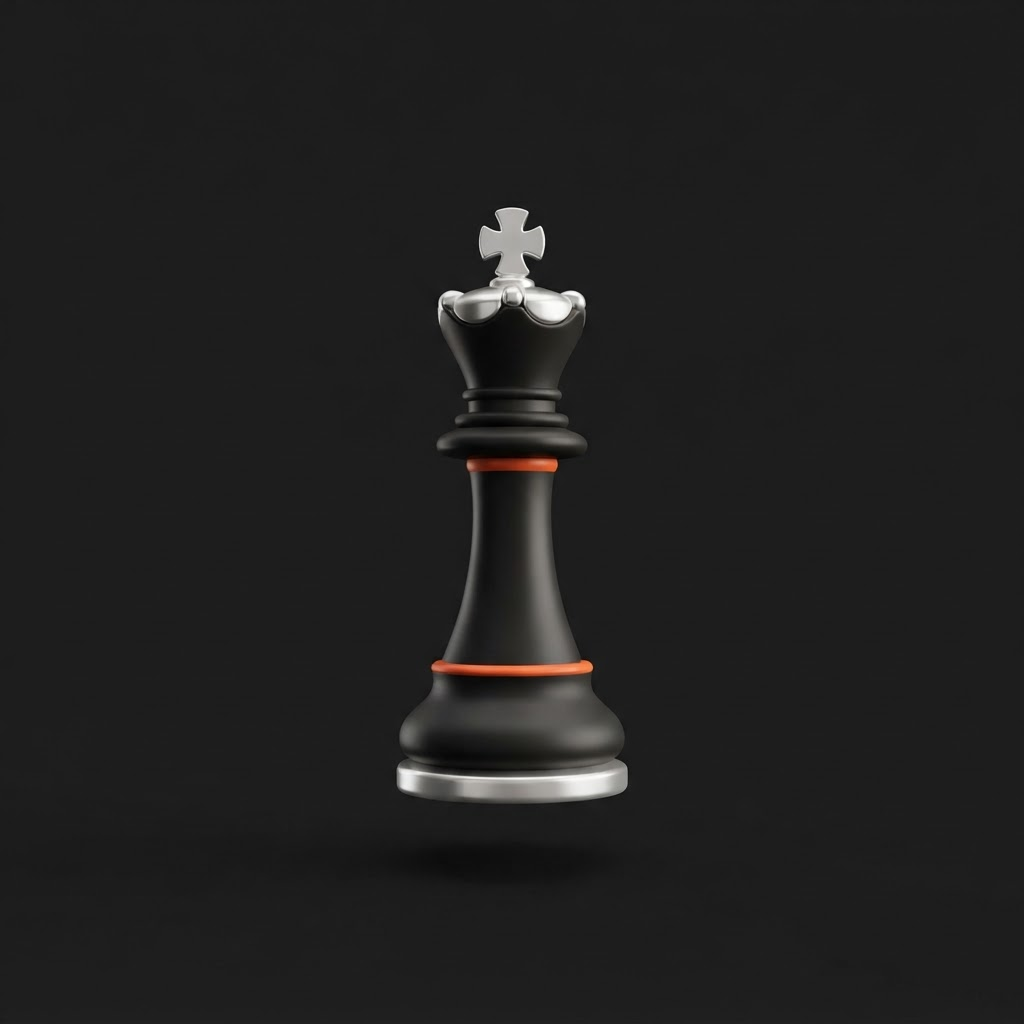
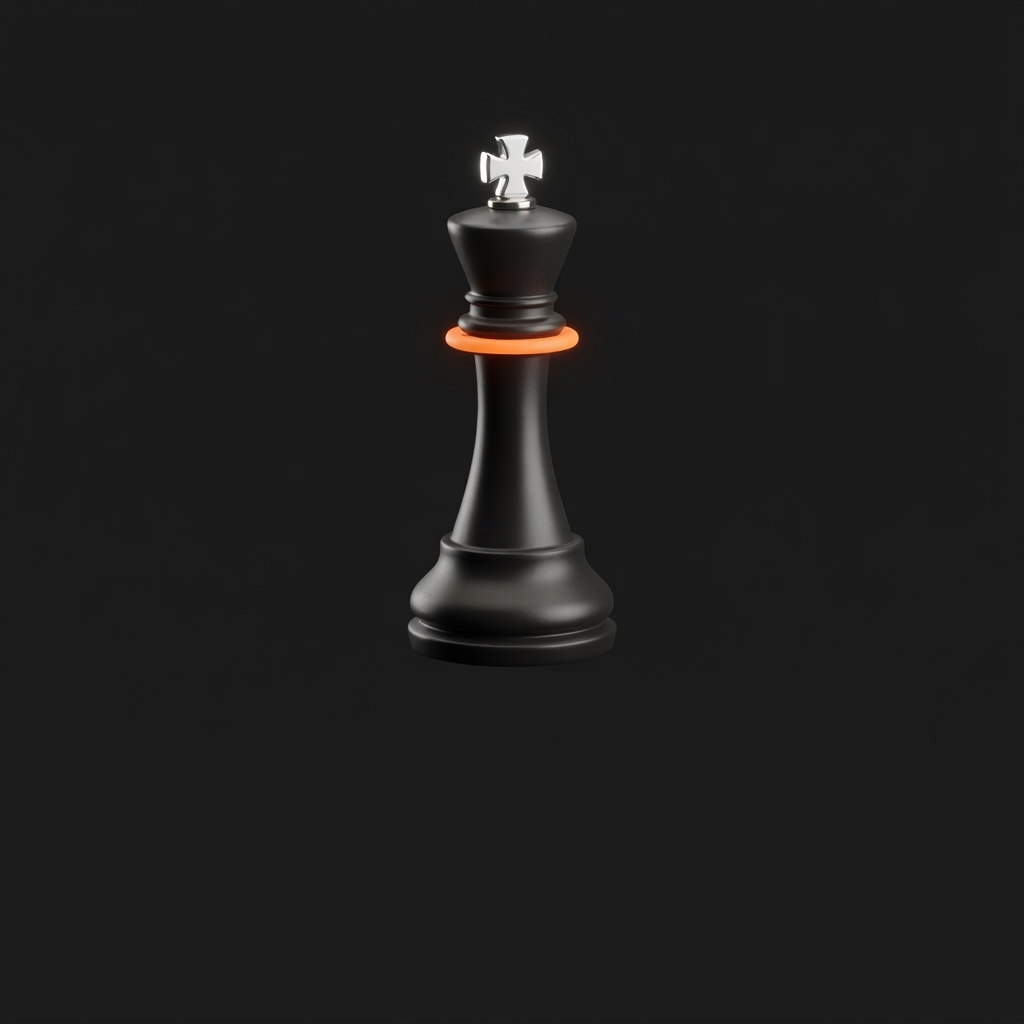
feat: revamp QuickGlanceSection with new layout and gradient

Changed region(s): [[0.375, 0.125, 0.625, 0.8125]]

diff --git a/components/home/quick-glance-section/QuickGlanceSection.tsx b/components/home/quick-glance-section/QuickGlanceSection.tsx
@@ -92,13 +92,13 @@ function ProgramCard({
 }) {
   return (
     <article
-      className={`group relative flex flex-col overflow-hidden rounded-2xl border border-white/8 p-7 shadow-[0_24px_60px_-30px_rgba(0,0,0,0.85)] transition-all duration-700 ease-out hover:-translate-y-1 hover:border-white/15 ${
+      className={`group relative flex flex-col overflow-hidden rounded-2xl border border-white/8 shadow-[0_24px_60px_-30px_rgba(0,0,0,0.85)] transition-all duration-700 ease-out hover:-translate-y-1 hover:border-white/15 ${
         visible ? "translate-y-0 opacity-100" : "translate-y-6 opacity-0"
       }`}
       style={{
         transitionDelay: `${100 + index * 70}ms`,
         background:
-          "linear-gradient(155deg, #242424 0%, #171717 52%, #0E0E0E 100%)",
+          "linear-gradient(180deg, #262626 0%, #1F1F1F 42%, #1B1B1B 100%)",
       }}
     >
       {/* soft accent bloom, revealed on hover */}
@@ -108,45 +108,61 @@ function ProgramCard({
         style={{ background: "radial-gradient(circle, rgba(255,109,53,0.22), transparent 70%)" }}
       />
 
-      {/* Glossy 3D object icon, seated in a matching tile */}
-      <div className="relative h-24 w-24 overflow-hidden rounded-xl border border-white/8 bg-[#1b1b1b]">
+      {/* Text leads the card */}
+      <div className="flex flex-col p-7 pb-0">
+        <p className="font-sans text-[0.66rem] font-semibold uppercase tracking-[0.16em] text-[color:var(--accent)]">
+          {program.label}
+        </p>
+
+        <h3
+          className="mt-3 text-[#F5F5F0] text-balance"
+          style={{
+            fontFamily: "'UXILeadershipCondensed'",
+            fontWeight: 500,
+            fontSize: "clamp(1.55rem, 2.1vw, 1.85rem)",
+            lineHeight: 1.1,
+          }}
+        >
+          {program.title}
+        </h3>
+
+        <p className="font-sans mt-2.5 text-[0.84rem] leading-relaxed text-white/45">
+          {program.brief}
+        </p>
+
+        <div className="mt-5 flex items-center gap-3">
+          <Link
+            href={program.href}
+            className="font-sans inline-flex items-center gap-1.5 rounded-full bg-[#F5F5F0] px-4 py-2 text-[0.78rem] font-semibold text-[#0D0D0D] transition-colors duration-300 hover:bg-[color:var(--accent)] hover:text-white"
+          >
+            Explore
+            <ArrowUpRight className="h-3.5 w-3.5" strokeWidth={2.5} />
+          </Link>
+          <span className="font-sans text-[0.68rem] tracking-[0.02em] text-white/35">
+            {program.when}
+          </span>
+        </div>
+      </div>
+
+      {/* Large glossy 3D object anchored at the bottom — its #1B1B1B ground
+          matches the card base so it reads as emerging from the card. */}
+      <div
+        className="relative mt-2 h-52 w-full overflow-hidden"
+        style={{
+          // Fade the icon's flat ground into the card so no square seam shows
+          maskImage:
+            "linear-gradient(to bottom, transparent 0%, #000 22%, #000 100%)",
+          WebkitMaskImage:
+            "linear-gradient(to bottom, transparent 0%, #000 22%, #000 100%)",
+        }}
+      >
         <Image
           src={program.icon}
           alt={program.alt}
           fill
-          sizes="96px"
-          className="object-cover transition-transform duration-[900ms] ease-out group-hover:scale-[1.06]"
+          sizes="(min-width: 1024px) 33vw, (min-width: 640px) 50vw, 100vw"
+          className="scale-125 object-contain object-bottom transition-transform duration-[900ms] ease-out group-hover:scale-[1.32]"
         />
-      </div>
-
-      <h3
-        className="mt-8 text-[#F5F5F0] text-balance"
-        style={{
-          fontFamily: "'UXILeadershipCondensed'",
-          fontWeight: 500,
-          fontSize: "clamp(1.55rem, 2.1vw, 1.85rem)",
-          lineHeight: 1.1,
-        }}
-      >
-        {program.title}
-      </h3>
-
-      <p className="font-sans mt-3 flex-1 text-[0.84rem] leading-relaxed text-white/45">
-        {program.brief}
-      </p>
-
-      {/* Explore button + quiet meta line */}
-      <div className="mt-7 flex items-center justify-between gap-4">
-        <Link
-          href={program.href}
-          className="font-sans inline-flex items-center gap-1.5 rounded-full bg-[#F5F5F0] px-4 py-2 text-[0.78rem] font-semibold text-[#0D0D0D] transition-colors duration-300 hover:bg-[color:var(--accent)] hover:text-white"
-        >
-          Explore
-          <ArrowUpRight className="h-3.5 w-3.5" strokeWidth={2.5} />
-        </Link>
-        <span className="font-sans text-[0.68rem] tracking-[0.02em] text-white/35">
-          {program.when}
-        </span>
       </div>
     </article>
   );
